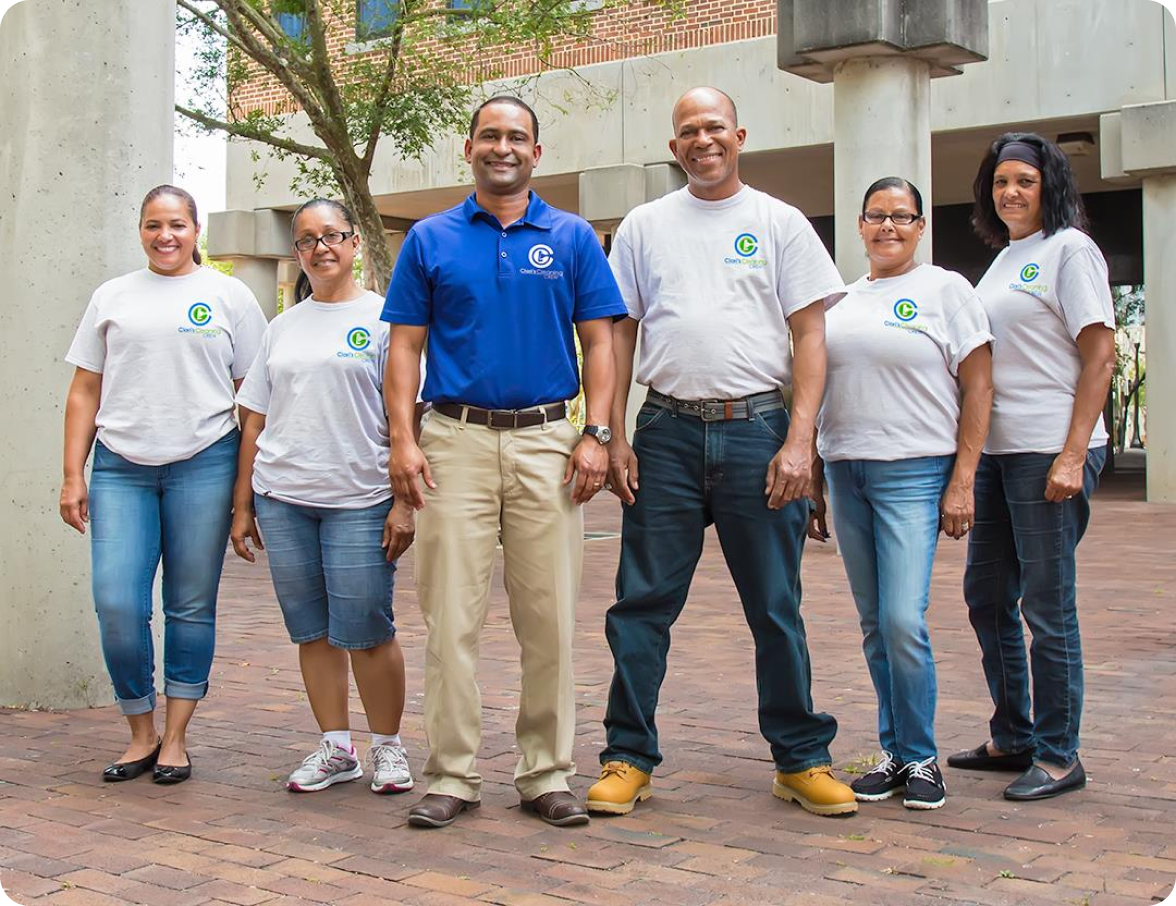
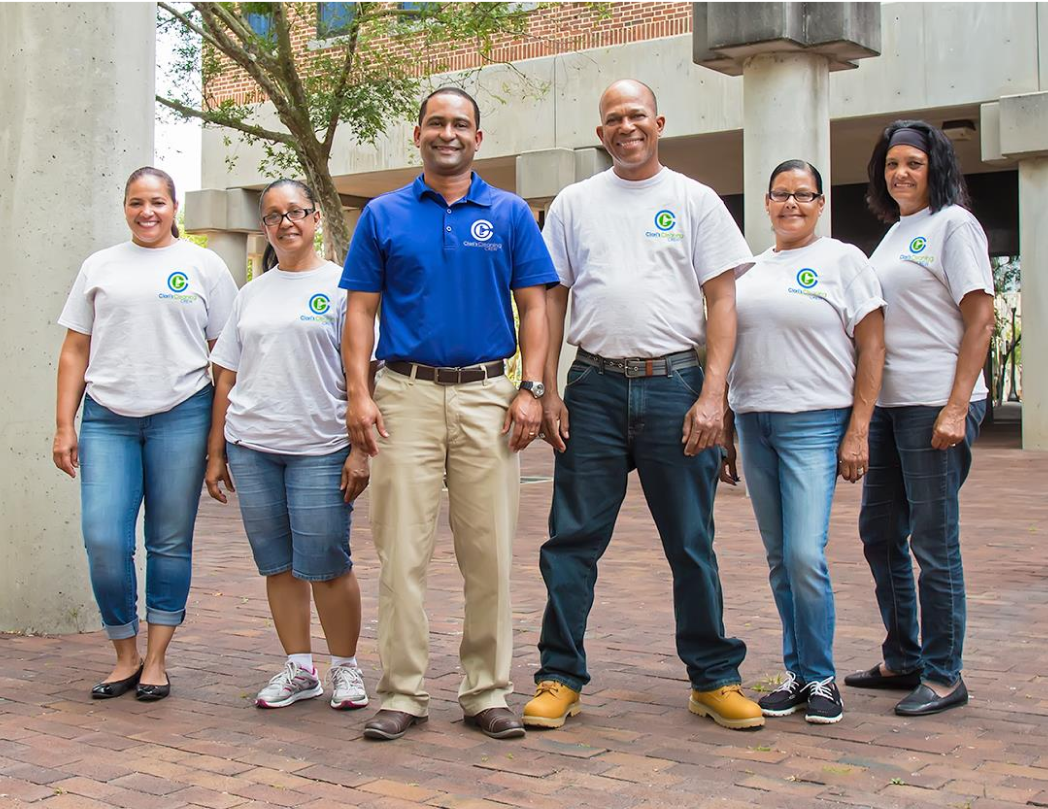
added regular sections

diff --git a/src/sections/ourTeam.tsx b/src/sections/ourTeam.tsx
@@ -1,0 +1,34 @@
+
+import React from 'react';
+import SectionComponent from "@/components/Section";
+
+import { FaPhone } from 'react-icons/fa6';
+
+import TeamImg from '@/assets/team.png'
+import { PAGE_ROUTE } from '@/constants/info';
+
+const OurTeam = () => {
+
+  return (
+    <SectionComponent
+      title={"Our Team"}
+      content={`We are a team of passionate individuals driven by pride in their work. While we may not label ourselves as perfectionists, our commitment to excellence shines through in every task. Each team member is dedicated to ensuring our clients receive the highest standard of care, fostering lasting relationships. It's this unwavering dedication that keeps our clients coming back for our exceptional services.`}
+      image={{
+        type: "img",
+        src: TeamImg,
+      }}
+      primaryButton={{
+        label: "View Our Services",
+        linkType: "internal",
+        href: PAGE_ROUTE.SERVICES,
+      }}
+      secondaryButton={{
+        label: "Book Cleaning",
+        linkType: "internal",
+        href: PAGE_ROUTE.FREE_QUOTE,
+      }}
+    />
+  );
+}
+
+export default OurTeam;

diff --git a/src/sections/aboutIntro/index.tsx b/src/sections/aboutIntro/index.tsx
@@ -1,0 +1,28 @@
+import SectionComponent from "@/components/Section";
+import React from "react";
+
+
+
+import HomeImg from "@/assets/homeImg.png";
+import { white300 } from "@/constants/colors";
+
+// icons
+
+const AboutIntro = () => {
+ 
+
+  return (
+    <SectionComponent
+      title={"About Clar's Cleaning Crew"}
+      content={`Our founders, Claribel Nunez and Gabriel Peralta, bring a fresh perspective to cleaning services at Clari's Cleaning Crew. Originally from the Dominican Republic and now rooted in Lakeland, Florida, our family-operated business is dedicated to providing excellent and personalized cleaning services.\n\nTransform your space with us and enjoy a spotless, safe haven for your family. Contact Clari's Cleaning Crew today for a cleaner, healthier home!`}
+      backgroundColor={white300}
+      reverse={true}
+      maxImageWidth="480px"
+      image={
+        {type:'component',src:<>Video</>}
+      }
+    ></SectionComponent>
+  );
+};
+
+export default AboutIntro;

diff --git a/src/components/Section/index.tsx b/src/components/Section/index.tsx
@@ -1,6 +1,6 @@
 "use client"
 
-import React, { PropsWithChildren } from "react";
+import React, { ReactElement, PropsWithChildren } from "react";
 
 import { StaticImport } from "next/dist/shared/lib/get-img-props";
 import {
@@ -26,12 +26,13 @@ interface SectionType
   content?: string | undefined;
   maxImageWidth?: string | undefined;
   image?:
-    | { type: "img"; src: StaticImport}
-    | { type: "component"; src: React.Component } | undefined;
+    | { type: "img"; src: StaticImport }
+    | { type: "component"; src: ReactElement }
+    | undefined;
   reverse?: boolean; // reverses order of child divs
   primaryButton?: SectionButton;
   secondaryButton?: SectionButton;
-  sectionsType?: 'single' |'double'; //one or two divs in sections
+  sectionsType?: "single" | "double"; //one or two divs in sections
 }
 
 const SectionComponent = ({

diff --git a/src/app/page.tsx b/src/app/page.tsx
@@ -1,5 +1,5 @@
 import Link from "next/link";
-import { HomeWrapper, BannerSection, ContentWrap } from "./page.style";
+import { BannerSection, ContentWrap } from "./page.style";
 
 import { PAGE_ROUTE } from "@/constants/info";
 
@@ -17,7 +17,7 @@ import TrustedBrandsSection from "@/sections/trustedBrands";
 
 export default function Home() {
   return (
-    <HomeWrapper>
+    <>
       <BannerSection>
         <ContentWrap>
           <h1>
@@ -54,6 +54,6 @@ export default function Home() {
       <GreenCleaning />
 
       <TrustedBrandsSection />
-    </HomeWrapper>
+    </>
   );
 }

diff --git a/src/app/about/page.tsx b/src/app/about/page.tsx
@@ -1,12 +1,21 @@
-import Link from 'next/link';
-import React from 'react'
 
-const About = () => {
+
+// sections
+import AboutIntro from "@/sections/aboutIntro";
+import GreenCleaning from "@/sections/greenCleaning";
+import OurTeam from "@/sections/ourTeam";
+import Testimonials from "@/sections/testimonials";
+
+export default function About() {
   return (
-    <div>
-      About
-    </div>
+    <>
+    
+      <AboutIntro/>
+      <OurTeam />
+      <Testimonials />
+
+      <GreenCleaning />
+
+    </>
   );
 }
-
-export default About

diff --git a/src/app/contact/page.tsx b/src/app/contact/page.tsx
@@ -1,8 +1,12 @@
-import Link from 'next/link';
-import React from 'react'
+// sections
+import ServiceArea from "@/sections/serviceArea";
+import Testimonials from "@/sections/testimonials";
 
-const Contact = () => {
-  return <div>Contact</div>;
+export default function Contact() {
+  return (
+    <>
+      <Testimonials />
+      <ServiceArea />
+    </>
+  );
 }
-
-export default Contact;

diff --git a/src/app/services/page.tsx b/src/app/services/page.tsx
@@ -1,8 +1,12 @@
-import Link from 'next/link';
-import React from 'react'
+// sections
+import GreenCleaning from "@/sections/greenCleaning";
+import Testimonials from "@/sections/testimonials";
 
-const Services = () => {
-  return <div>Services</div>;
+export default function Services() {
+  return (
+    <>
+    
+      <Testimonials />
+    </>
+  );
 }
-
-export default Services;

diff --git a/src/app/page.style.ts b/src/app/page.style.ts
@@ -2,10 +2,6 @@
 
 import styled from "styled-components";
 
-export const HomeWrapper = styled.div`
-
-`;
-
 export const BannerSection = styled.section`
   height: calc(100vh - 125px);
   min-height: 400px;

diff --git a/src/sections/aboutIntro/aboutIntro.styles.tsx b/src/sections/aboutIntro/aboutIntro.styles.tsx
@@ -1,0 +1,4 @@
+"use client";
+
+import styled from "styled-components";
+
